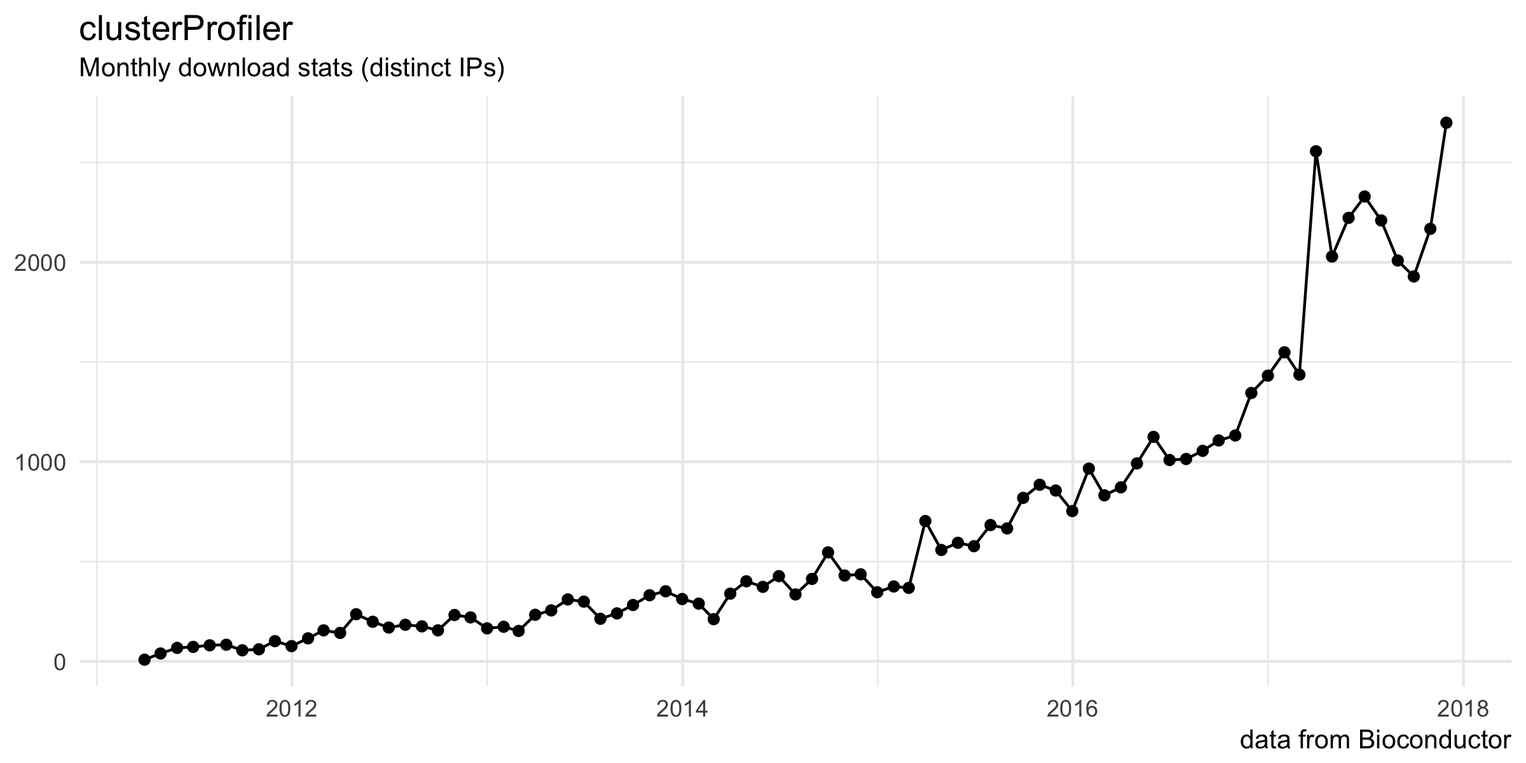
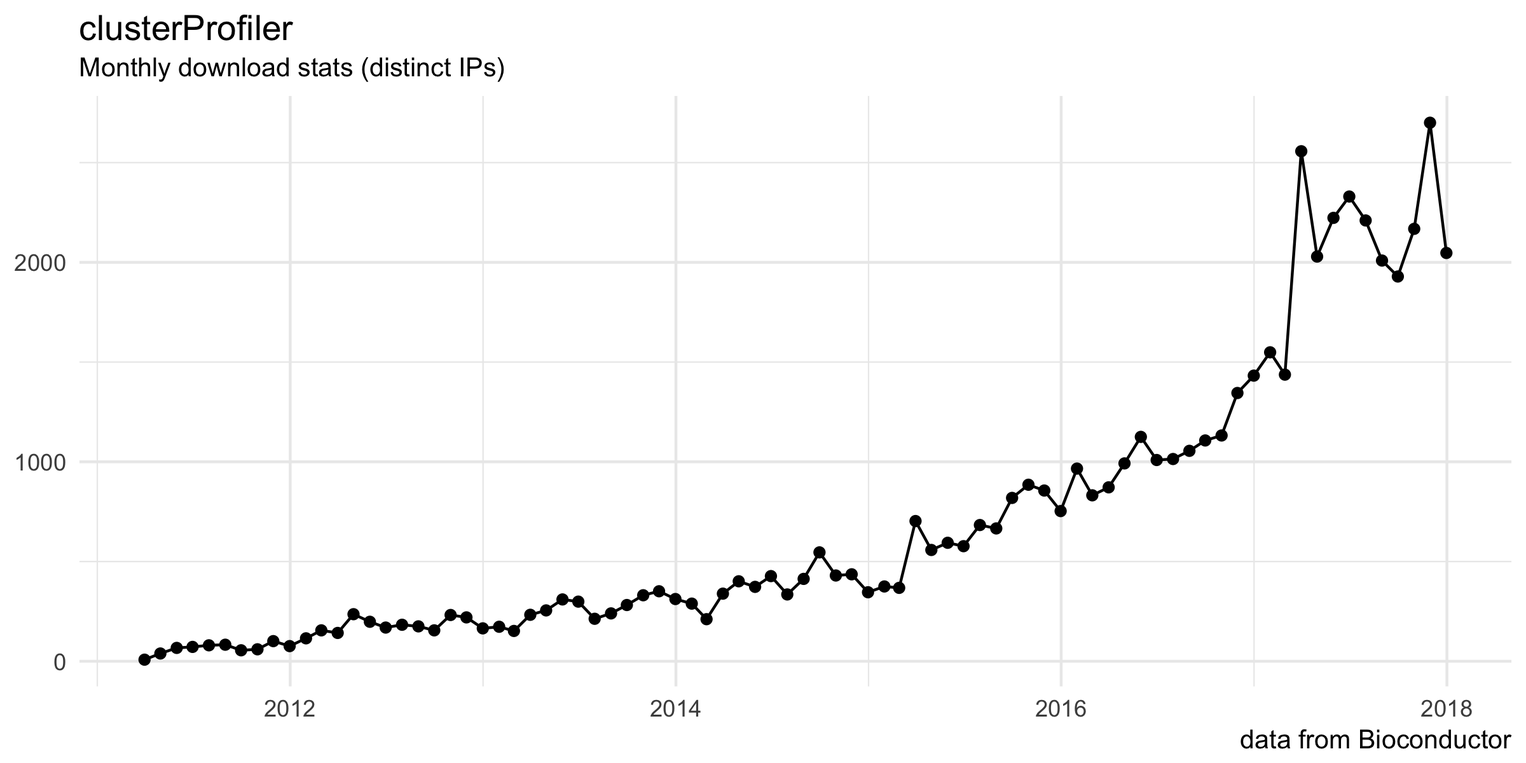
update docs

diff --git a/docs/featured-articles/index.html b/docs/featured-articles/index.html
@@ -293,15 +293,19 @@
 <p><a href="https://github.com/GuangchuangYu/featured_img">Let us know</a> if you have published using <code>clusterProfiler</code> and your publication will be featured here.</p>
 <p><img src="../images/citation.png" width="880"/></p>
 <div id="section" class="section level2">
+<h2><i class="fa fa-calendar"></i> 2018</h2>
+<p><a href="https://doi.org/10.1093/nar/gky008">The prolyl isomerase FKBP25 regulates microtubule polymerization impacting cell cycle progression and genomic stability</a>. <strong><em>Nucleic Acids Research</em></strong>. 2018</p>
+<p><a href="https://www.sciencedirect.com/science/article/pii/S0092867417314320">Microbiome Influences Prenatal and Adult Microglia in a Sex-Specific Manner</a>. <strong><em>Cell</em></strong>. 2018.</p>
+<p><a href="http://dx.doi.org/10.1093/bib/bbw139">Gene co-expression analysis for functional classification and gene–disease predictions</a>. <strong><em>Brief Bioinform</em></strong>. 2018.</p>
+<p><a href="http://dx.doi.org/10.1101/gr.224386.117">The landscape of miRNA editing in animals and its impact on miRNA biogenesis and targeting</a>. <strong><em>Genome Research</em></strong>. 2018, 28:132-143 .</p>
+<p><a href="http://dx.doi.org/10.1038/s41593-017-0025-9">Proteomic analysis of postsynaptic proteins in regions of the human neocortex</a>. <strong><em>Nature Neuroscience</em></strong>. 2018, 21(1):130-138.</p>
+<p><a href="http://dx.doi.org/10.1038/s41588-017-0001-z">Mutant-IDH1-dependent chromatin state reprogramming, reversibility, and persistence</a>. <strong><em>Nature Genetics</em></strong>. 2018, 50:62–72.</p>
+</div>
+<div id="section-1" class="section level2">
 <h2><i class="fa fa-calendar"></i> 2017</h2>
-<p><a href="https://www.sciencedirect.com/science/article/pii/S0092867417314320">Microbiome Influences Prenatal and Adult Microglia in a Sex-Specific Manner</a>. <strong><em>Cell</em></strong>. 2017.</p>
-<p><a href="http://dx.doi.org/10.1038/s41467-017-02185-w">EGFR feedback-inhibition by Ran-binding protein 6 is disrupted in cancer</a> <strong><em>Nature Communications</em></strong>.</p>
-<p><a href="http://dx.doi.org/10.1101/gr.224386.117">The landscape of miRNA editing in animals and its impact on miRNA biogenesis and targeting</a>. <strong><em>Genome Research</em></strong>.</p>
-<p><a href="https://link.springer.com/article/10.1038/s41593-017-0025-9">Proteomic analysis of postsynaptic proteins in regions of the human neocortex</a>.</p>
-<p><a href="http://dx.doi.org/10.1038/s41588-017-0001-z">Mutant-IDH1-dependent chromatin state reprogramming, reversibility, and persistence</a>. <strong><em>Nature Genetics</em></strong>. 2017.</p>
-<p><a href="http://dx.doi.org/10.1073/pnas.1710374114">FMRFamide-like peptides expand the behavioral repertoire of a densely connected nervous system</a>. <strong><em>PNAS</em></strong>. 2017.</p>
-<p><a href="https://www.nature.com/articles/nature24487">Regeneration of the entire human epidermis using transgenic stem cells</a>. <strong><em>Nature</em></strong>. 2017.</p>
-<p><a href="http://dx.doi.org/10.1093/bib/bbw139">Gene co-expression analysis for functional classification and gene–disease predictions</a>. <strong><em>Brief Bioinform</em></strong>. 2017.</p>
+<p><a href="http://dx.doi.org/10.1038/s41467-017-02185-w">EGFR feedback-inhibition by Ran-binding protein 6 is disrupted in cancer</a> <strong><em>Nature Communications</em></strong>. 2017, 8:2035.</p>
+<p><a href="http://dx.doi.org/10.1073/pnas.1710374114">FMRFamide-like peptides expand the behavioral repertoire of a densely connected nervous system</a>. <strong><em>PNAS</em></strong>. 2017, 114(50):E10726–E10735.</p>
+<p><a href="https://www.nature.com/articles/nature24487">Regeneration of the entire human epidermis using transgenic stem cells</a>. <strong><em>Nature</em></strong>. 2017, 551:327–332.</p>
 <p><a href="http://dx.doi.org/10.1038/s41467-017-01458-8">RNA editing by ADAR1 leads to context-dependent transcriptome-wide changes in RNA secondary structure</a>. <strong><em>Nature Communications</em></strong>. 2017, 8:1440.</p>
 <p><a href="http://dx.doi.org/10.1073/pnas.1710885114">Mediator subunit MED25 links the jasmonate receptor to transcriptionally active chromatin</a>. <strong><em>PNAS</em></strong>. 2017, 114(42):E8930-E8939.</p>
 <p><a href="http://dx.doi.org/10.1073/pnas.1617384114">qSVA framework for RNA quality correction in differential expression analysis</a>. <strong><em>PNAS</em></strong>. 2017, 114(27):7130-7135.</p>
@@ -309,7 +313,7 @@
 <p><a href="http://circgenetics.ahajournals.org/content/10/1/e001534">The Long Noncoding RNA Landscape of the Ischemic Human Left Ventricle</a>. <strong><em>Circulation: Cardiovascular Genetics</em></strong>. 2017, 10:e001534.</p>
 <p><a href="http://www.nature.com/nature/journal/vaop/ncurrent/full/nature20789.html">Splicing factor 1 modulates dietary restriction and TORC1 pathway longevity in <em>C. elegans</em></a>. <strong><em>Nature</em></strong>. 2017, 541:102–106.</p>
 </div>
-<div id="section-1" class="section level2">
+<div id="section-2" class="section level2">
 <h2><i class="fa fa-calendar"></i> 2016</h2>
 <p><a href="http://jem.rupress.org/content/early/2016/09/14/jem.20160185.full">Dpy30 is critical for maintaining the identity and function of adult hematopoietic stem cells</a>. <strong><em>The Journal of Experimental Medicine</em></strong>. 2016, 213(11):2349-2364</p>
 <p><a href="http://www.nature.com/nm/journal/vaop/ncurrent/full/nm.4191.html">Classification and characterization of microsatellite instability across 18 cancer types</a>. <strong><em>Nature Medicine</em></strong>. 2016, 22:1342–1350.</p>
@@ -323,7 +327,7 @@
 <p><a href="http://genome.cshlp.org/content/26/3/331.short">TP53 regulates miRNA association with AGO2 to remodel the miRNA–mRNA interaction network</a>. <strong><em>Genome Research</em></strong>. 2016, 26:331-341.</p>
 <p><a href="http://dx.doi.org/10.1039/C5MB00663E">ReactomePA: an R/Bioconductor package for reactome pathway analysis and visualization</a>. <strong><em>Molecular BioSystems</em></strong>. 2016, 12(2):477-479.</p>
 </div>
-<div id="section-2" class="section level2">
+<div id="section-3" class="section level2">
 <h2><i class="fa fa-calendar"></i> 2015</h2>
 <p><a href="http://bioinformatics.oxfordjournals.org/cgi/content/abstract/btv145">ChIPseeker: an R/Bioconductor package for ChIP peak annotation, comparision and visualization</a>. <strong><em>Bioinformatics</em></strong>. 2015, 31(14):2382-2383.</p>
 <p><a href="http://bioinformatics.oxfordjournals.org/cgi/content/abstract/btu684">DOSE: an R/Bioconductor package for Disease Ontology Semantic and Enrichment analysis</a>. <strong><em>Bioinformatics</em></strong>. 2015, 31(4):608-609.</p>
@@ -332,7 +336,7 @@
 <p><a href="http://dx.doi.org/10.1093/hmg/ddv411">Genome-wide disruption of 5-hydroxymethylcytosine in a mouse model of autism</a>. <strong><em>Hum. Mol. Genet</em></strong>. 2015, 24(24):7121-7131.</p>
 <p><a href="https://www.ncbi.nlm.nih.gov/pmc/articles/PMC4747217/">Correlation of clinical features and genetic profiles of stromal interaction molecule 1 (STIM1) in colorectal cancers</a>. <strong><em>Oncotarget</em></strong>. 2015, 6(39):42169–42182.</p>
 </div>
-<div id="section-3" class="section level2">
+<div id="section-4" class="section level2">
 <h2><i class="fa fa-calendar"></i> 2014</h2>
 <p><a href="http://dx.doi.org/10.7554/eLife.02077">Age- and diet-associated metabolome remodeling characterizes the aging process driven by damage accumulation</a>. <strong><em>eLife</em></strong> 2014,3:e02077</p>
 <div class="figure">
@@ -342,7 +346,7 @@
 <p><a href="http://dx.doi.org/10.1093/gbe/evu101">Expression Profiling of the Wheat Pathogen <em>Zymoseptoria tritici</em> Reveals Genomic Patterns of Transcription and Host-Specific Regulatory Programs</a>. <strong><em>Genome Biol Evol</em></strong> 2014, 6(6): 1353-1365.</p>
 <p><a href="http://dx.doi.org/10.1039/C4MT00027G">Proteomic analysis of putative heme-binding proteins in <em>Streptococcus pyogenes</em></a>. <strong><em>Metallomics</em></strong> 2014, 6:1451-1459</p>
 </div>
-<div id="section-4" class="section level2">
+<div id="section-5" class="section level2">
 <h2><i class="fa fa-calendar"></i> 2013</h2>
 <p><a href="http://dx.doi.org/10.1039/C3MT00126A">Putative cobalt- and nickel-binding proteins and motifs in <em>Streptococcus pneumoniae</em></a>. <strong><em>Metallomics</em></strong> 2013,5:928-935.</p>
 <div class="figure">
@@ -355,7 +359,7 @@
 
 			<aside class="copyright" role="note">
 				
-				&copy; 2017 Released under the Artistic-2.0 license &ndash;
+				&copy; 2018 Released under the Artistic-2.0 license &ndash;
 				
 				Documentation built with
 				<a href="https://www.gohugo.io" target="_blank">Hugo</a>

diff --git a/site_src/content/featured-articles/index.html b/site_src/content/featured-articles/index.html
@@ -10,15 +10,19 @@ weight: 20
 <p><a href="https://github.com/GuangchuangYu/featured_img">Let us know</a> if you have published using <code>clusterProfiler</code> and your publication will be featured here.</p>
 <p><img src="../images/citation.png" width="880"/></p>
 <div id="section" class="section level2">
+<h2><i class="fa fa-calendar"></i> 2018</h2>
+<p><a href="https://doi.org/10.1093/nar/gky008">The prolyl isomerase FKBP25 regulates microtubule polymerization impacting cell cycle progression and genomic stability</a>. <strong><em>Nucleic Acids Research</em></strong>. 2018</p>
+<p><a href="https://www.sciencedirect.com/science/article/pii/S0092867417314320">Microbiome Influences Prenatal and Adult Microglia in a Sex-Specific Manner</a>. <strong><em>Cell</em></strong>. 2018.</p>
+<p><a href="http://dx.doi.org/10.1093/bib/bbw139">Gene co-expression analysis for functional classification and gene–disease predictions</a>. <strong><em>Brief Bioinform</em></strong>. 2018.</p>
+<p><a href="http://dx.doi.org/10.1101/gr.224386.117">The landscape of miRNA editing in animals and its impact on miRNA biogenesis and targeting</a>. <strong><em>Genome Research</em></strong>. 2018, 28:132-143 .</p>
+<p><a href="http://dx.doi.org/10.1038/s41593-017-0025-9">Proteomic analysis of postsynaptic proteins in regions of the human neocortex</a>. <strong><em>Nature Neuroscience</em></strong>. 2018, 21(1):130-138.</p>
+<p><a href="http://dx.doi.org/10.1038/s41588-017-0001-z">Mutant-IDH1-dependent chromatin state reprogramming, reversibility, and persistence</a>. <strong><em>Nature Genetics</em></strong>. 2018, 50:62–72.</p>
+</div>
+<div id="section-1" class="section level2">
 <h2><i class="fa fa-calendar"></i> 2017</h2>
-<p><a href="https://www.sciencedirect.com/science/article/pii/S0092867417314320">Microbiome Influences Prenatal and Adult Microglia in a Sex-Specific Manner</a>. <strong><em>Cell</em></strong>. 2017.</p>
-<p><a href="http://dx.doi.org/10.1038/s41467-017-02185-w">EGFR feedback-inhibition by Ran-binding protein 6 is disrupted in cancer</a> <strong><em>Nature Communications</em></strong>.</p>
-<p><a href="http://dx.doi.org/10.1101/gr.224386.117">The landscape of miRNA editing in animals and its impact on miRNA biogenesis and targeting</a>. <strong><em>Genome Research</em></strong>.</p>
-<p><a href="https://link.springer.com/article/10.1038/s41593-017-0025-9">Proteomic analysis of postsynaptic proteins in regions of the human neocortex</a>.</p>
-<p><a href="http://dx.doi.org/10.1038/s41588-017-0001-z">Mutant-IDH1-dependent chromatin state reprogramming, reversibility, and persistence</a>. <strong><em>Nature Genetics</em></strong>. 2017.</p>
-<p><a href="http://dx.doi.org/10.1073/pnas.1710374114">FMRFamide-like peptides expand the behavioral repertoire of a densely connected nervous system</a>. <strong><em>PNAS</em></strong>. 2017.</p>
-<p><a href="https://www.nature.com/articles/nature24487">Regeneration of the entire human epidermis using transgenic stem cells</a>. <strong><em>Nature</em></strong>. 2017.</p>
-<p><a href="http://dx.doi.org/10.1093/bib/bbw139">Gene co-expression analysis for functional classification and gene–disease predictions</a>. <strong><em>Brief Bioinform</em></strong>. 2017.</p>
+<p><a href="http://dx.doi.org/10.1038/s41467-017-02185-w">EGFR feedback-inhibition by Ran-binding protein 6 is disrupted in cancer</a> <strong><em>Nature Communications</em></strong>. 2017, 8:2035.</p>
+<p><a href="http://dx.doi.org/10.1073/pnas.1710374114">FMRFamide-like peptides expand the behavioral repertoire of a densely connected nervous system</a>. <strong><em>PNAS</em></strong>. 2017, 114(50):E10726–E10735.</p>
+<p><a href="https://www.nature.com/articles/nature24487">Regeneration of the entire human epidermis using transgenic stem cells</a>. <strong><em>Nature</em></strong>. 2017, 551:327–332.</p>
 <p><a href="http://dx.doi.org/10.1038/s41467-017-01458-8">RNA editing by ADAR1 leads to context-dependent transcriptome-wide changes in RNA secondary structure</a>. <strong><em>Nature Communications</em></strong>. 2017, 8:1440.</p>
 <p><a href="http://dx.doi.org/10.1073/pnas.1710885114">Mediator subunit MED25 links the jasmonate receptor to transcriptionally active chromatin</a>. <strong><em>PNAS</em></strong>. 2017, 114(42):E8930-E8939.</p>
 <p><a href="http://dx.doi.org/10.1073/pnas.1617384114">qSVA framework for RNA quality correction in differential expression analysis</a>. <strong><em>PNAS</em></strong>. 2017, 114(27):7130-7135.</p>
@@ -26,7 +30,7 @@ weight: 20
 <p><a href="http://circgenetics.ahajournals.org/content/10/1/e001534">The Long Noncoding RNA Landscape of the Ischemic Human Left Ventricle</a>. <strong><em>Circulation: Cardiovascular Genetics</em></strong>. 2017, 10:e001534.</p>
 <p><a href="http://www.nature.com/nature/journal/vaop/ncurrent/full/nature20789.html">Splicing factor 1 modulates dietary restriction and TORC1 pathway longevity in <em>C. elegans</em></a>. <strong><em>Nature</em></strong>. 2017, 541:102–106.</p>
 </div>
-<div id="section-1" class="section level2">
+<div id="section-2" class="section level2">
 <h2><i class="fa fa-calendar"></i> 2016</h2>
 <p><a href="http://jem.rupress.org/content/early/2016/09/14/jem.20160185.full">Dpy30 is critical for maintaining the identity and function of adult hematopoietic stem cells</a>. <strong><em>The Journal of Experimental Medicine</em></strong>. 2016, 213(11):2349-2364</p>
 <p><a href="http://www.nature.com/nm/journal/vaop/ncurrent/full/nm.4191.html">Classification and characterization of microsatellite instability across 18 cancer types</a>. <strong><em>Nature Medicine</em></strong>. 2016, 22:1342–1350.</p>
@@ -40,7 +44,7 @@ weight: 20
 <p><a href="http://genome.cshlp.org/content/26/3/331.short">TP53 regulates miRNA association with AGO2 to remodel the miRNA–mRNA interaction network</a>. <strong><em>Genome Research</em></strong>. 2016, 26:331-341.</p>
 <p><a href="http://dx.doi.org/10.1039/C5MB00663E">ReactomePA: an R/Bioconductor package for reactome pathway analysis and visualization</a>. <strong><em>Molecular BioSystems</em></strong>. 2016, 12(2):477-479.</p>
 </div>
-<div id="section-2" class="section level2">
+<div id="section-3" class="section level2">
 <h2><i class="fa fa-calendar"></i> 2015</h2>
 <p><a href="http://bioinformatics.oxfordjournals.org/cgi/content/abstract/btv145">ChIPseeker: an R/Bioconductor package for ChIP peak annotation, comparision and visualization</a>. <strong><em>Bioinformatics</em></strong>. 2015, 31(14):2382-2383.</p>
 <p><a href="http://bioinformatics.oxfordjournals.org/cgi/content/abstract/btu684">DOSE: an R/Bioconductor package for Disease Ontology Semantic and Enrichment analysis</a>. <strong><em>Bioinformatics</em></strong>. 2015, 31(4):608-609.</p>
@@ -49,7 +53,7 @@ weight: 20
 <p><a href="http://dx.doi.org/10.1093/hmg/ddv411">Genome-wide disruption of 5-hydroxymethylcytosine in a mouse model of autism</a>. <strong><em>Hum. Mol. Genet</em></strong>. 2015, 24(24):7121-7131.</p>
 <p><a href="https://www.ncbi.nlm.nih.gov/pmc/articles/PMC4747217/">Correlation of clinical features and genetic profiles of stromal interaction molecule 1 (STIM1) in colorectal cancers</a>. <strong><em>Oncotarget</em></strong>. 2015, 6(39):42169–42182.</p>
 </div>
-<div id="section-3" class="section level2">
+<div id="section-4" class="section level2">
 <h2><i class="fa fa-calendar"></i> 2014</h2>
 <p><a href="http://dx.doi.org/10.7554/eLife.02077">Age- and diet-associated metabolome remodeling characterizes the aging process driven by damage accumulation</a>. <strong><em>eLife</em></strong> 2014,3:e02077</p>
 <div class="figure">
@@ -59,7 +63,7 @@ weight: 20
 <p><a href="http://dx.doi.org/10.1093/gbe/evu101">Expression Profiling of the Wheat Pathogen <em>Zymoseptoria tritici</em> Reveals Genomic Patterns of Transcription and Host-Specific Regulatory Programs</a>. <strong><em>Genome Biol Evol</em></strong> 2014, 6(6): 1353-1365.</p>
 <p><a href="http://dx.doi.org/10.1039/C4MT00027G">Proteomic analysis of putative heme-binding proteins in <em>Streptococcus pyogenes</em></a>. <strong><em>Metallomics</em></strong> 2014, 6:1451-1459</p>
 </div>
-<div id="section-4" class="section level2">
+<div id="section-5" class="section level2">
 <h2><i class="fa fa-calendar"></i> 2013</h2>
 <p><a href="http://dx.doi.org/10.1039/C3MT00126A">Putative cobalt- and nickel-binding proteins and motifs in <em>Streptococcus pneumoniae</em></a>. <strong><em>Metallomics</em></strong> 2013,5:928-935.</p>
 <div class="figure">

diff --git a/docs/index.html b/docs/index.html
@@ -288,7 +288,7 @@
 
 			<p><img src="https://raw.githubusercontent.com/Bioconductor/BiocStickers/master/clusterProfiler/clusterProfiler.png" height="200" align="right" /></p>
 <p><link rel="stylesheet" href="https://guangchuangyu.github.io/css/font-awesome.min.css"></p>
-<p><a href="https://bioconductor.org/packages/clusterProfiler"><img src="https://img.shields.io/badge/release%20version-3.6.0-blue.svg?style=flat" alt="releaseVersion" /></a> <a href="https://github.com/guangchuangyu/clusterProfiler"><img src="https://img.shields.io/badge/devel%20version-3.7.0-blue.svg?style=flat" alt="develVersion" /></a> <a href="https://bioconductor.org/packages/stats/bioc/clusterProfiler"><img src="https://img.shields.io/badge/downloads-56256/total-blue.svg?style=flat" alt="total" /></a> <a href="https://bioconductor.org/packages/stats/bioc/clusterProfiler"><img src="https://img.shields.io/badge/downloads-2700/month-blue.svg?style=flat" alt="month" /></a></p>
+<p><a href="https://bioconductor.org/packages/clusterProfiler"><img src="https://img.shields.io/badge/release%20version-3.6.0-blue.svg?style=flat" alt="releaseVersion" /></a> <a href="https://github.com/guangchuangyu/clusterProfiler"><img src="https://img.shields.io/badge/devel%20version-3.7.0-blue.svg?style=flat" alt="develVersion" /></a> <a href="https://bioconductor.org/packages/stats/bioc/clusterProfiler"><img src="https://img.shields.io/badge/downloads-57788/total-blue.svg?style=flat" alt="total" /></a> <a href="https://bioconductor.org/packages/stats/bioc/clusterProfiler"><img src="https://img.shields.io/badge/downloads-2047/month-blue.svg?style=flat" alt="month" /></a></p>
 <p>The <a href="https://bioconductor.org/packages/clusterProfiler/">clusterProfiler</a> package implements methods to analyze and visualize functional profiles of genomic coordinates (supported by ChIPseeker), gene and gene clusters.</p>
 <p><a href="https://bioconductor.org/packages/clusterProfiler/">clusterProfiler</a> is released within the <a href="https://bioconductor.org/packages/clusterProfiler">Bioconductor</a> project and the source code is hosted on <a href="https://github.com/GuangchuangYu/clusterProfiler"><i class="fa fa-github fa-lg"></i> GitHub</a>.</p>
 <div id="author" class="section level2">
@@ -298,7 +298,7 @@
 <div id="citation" class="section level2">
 <h2><i class="fa fa-book"></i> Citation</h2>
 <p>Please cite the following article when using <a href="https://bioconductor.org/packages/clusterProfiler/">clusterProfiler</a>:</p>
-<p><a href="http://dx.doi.org/10.1089/omi.2011.0118"><img src="https://img.shields.io/badge/doi-10.1089/omi.2011.0118-blue.svg?style=flat" alt="doi" /></a> <a href="https://www.altmetric.com/details/681089"><img src="https://img.shields.io/badge/Altmetric-23-blue.svg?style=flat" alt="Altmetric" /></a> <a href="http://online.liebertpub.com/action/showMostCitedArticles?journalCode=omi"><img src="https://img.shields.io/badge/2nd%20most%20cited%20paper-in%20OMICS-blue.svg?style=flat" /></a> <a href="https://scholar.google.com.hk/scholar?oi=bibs&amp;hl=en&amp;cites=2349076811020942117"><img src="https://img.shields.io/badge/cited%20by-356-blue.svg?style=flat" alt="citation" /></a> <img src="https://img.shields.io/badge/ESI-Highly%20Cited%20Paper-blue.svg?style=flat" /></p>
+<p><a href="http://dx.doi.org/10.1089/omi.2011.0118"><img src="https://img.shields.io/badge/doi-10.1089/omi.2011.0118-blue.svg?style=flat" alt="doi" /></a> <a href="https://www.altmetric.com/details/681089"><img src="https://img.shields.io/badge/Altmetric-23-blue.svg?style=flat" alt="Altmetric" /></a> <a href="http://online.liebertpub.com/action/showMostCitedArticles?journalCode=omi"><img src="https://img.shields.io/badge/2nd%20most%20cited%20paper-in%20OMICS-blue.svg?style=flat" /></a> <a href="https://scholar.google.com.hk/scholar?oi=bibs&amp;hl=en&amp;cites=2349076811020942117"><img src="https://img.shields.io/badge/cited%20by-378-blue.svg?style=flat" alt="citation" /></a> <img src="https://img.shields.io/badge/ESI-Highly%20Cited%20Paper-blue.svg?style=flat" /></p>
 <p><strong>Yu G</strong>, Wang L, Han Y and He Q<sup>*</sup>. clusterProfiler: an R package for comparing biological themes among gene clusters. <strong><em>OMICS: A Journal of Integrative Biology</em></strong>. 2012, 16(5):284-287.</p>
 </div>
 <div id="featured-articles" class="section level2">
@@ -445,7 +445,7 @@ biocLite(&quot;clusterProfiler&quot;)</code></pre>
 
 			<aside class="copyright" role="note">
 				
-				&copy; 2017 Released under the Artistic-2.0 license &ndash;
+				&copy; 2018 Released under the Artistic-2.0 license &ndash;
 				
 				Documentation built with
 				<a href="https://www.gohugo.io" target="_blank">Hugo</a>

diff --git a/site_src/content/index.html b/site_src/content/index.html
@@ -9,7 +9,7 @@ weight: 1
 
 <p><img src="https://raw.githubusercontent.com/Bioconductor/BiocStickers/master/clusterProfiler/clusterProfiler.png" height="200" align="right" /></p>
 <p><link rel="stylesheet" href="https://guangchuangyu.github.io/css/font-awesome.min.css"></p>
-<p><a href="https://bioconductor.org/packages/clusterProfiler"><img src="https://img.shields.io/badge/release%20version-3.6.0-blue.svg?style=flat" alt="releaseVersion" /></a> <a href="https://github.com/guangchuangyu/clusterProfiler"><img src="https://img.shields.io/badge/devel%20version-3.7.0-blue.svg?style=flat" alt="develVersion" /></a> <a href="https://bioconductor.org/packages/stats/bioc/clusterProfiler"><img src="https://img.shields.io/badge/downloads-56256/total-blue.svg?style=flat" alt="total" /></a> <a href="https://bioconductor.org/packages/stats/bioc/clusterProfiler"><img src="https://img.shields.io/badge/downloads-2700/month-blue.svg?style=flat" alt="month" /></a></p>
+<p><a href="https://bioconductor.org/packages/clusterProfiler"><img src="https://img.shields.io/badge/release%20version-3.6.0-blue.svg?style=flat" alt="releaseVersion" /></a> <a href="https://github.com/guangchuangyu/clusterProfiler"><img src="https://img.shields.io/badge/devel%20version-3.7.0-blue.svg?style=flat" alt="develVersion" /></a> <a href="https://bioconductor.org/packages/stats/bioc/clusterProfiler"><img src="https://img.shields.io/badge/downloads-57788/total-blue.svg?style=flat" alt="total" /></a> <a href="https://bioconductor.org/packages/stats/bioc/clusterProfiler"><img src="https://img.shields.io/badge/downloads-2047/month-blue.svg?style=flat" alt="month" /></a></p>
 <p>The <a href="https://bioconductor.org/packages/clusterProfiler/">clusterProfiler</a> package implements methods to analyze and visualize functional profiles of genomic coordinates (supported by ChIPseeker), gene and gene clusters.</p>
 <p><a href="https://bioconductor.org/packages/clusterProfiler/">clusterProfiler</a> is released within the <a href="https://bioconductor.org/packages/clusterProfiler">Bioconductor</a> project and the source code is hosted on <a href="https://github.com/GuangchuangYu/clusterProfiler"><i class="fa fa-github fa-lg"></i> GitHub</a>.</p>
 <div id="author" class="section level2">
@@ -19,7 +19,7 @@ weight: 1
 <div id="citation" class="section level2">
 <h2><i class="fa fa-book"></i> Citation</h2>
 <p>Please cite the following article when using <a href="https://bioconductor.org/packages/clusterProfiler/">clusterProfiler</a>:</p>
-<p><a href="http://dx.doi.org/10.1089/omi.2011.0118"><img src="https://img.shields.io/badge/doi-10.1089/omi.2011.0118-blue.svg?style=flat" alt="doi" /></a> <a href="https://www.altmetric.com/details/681089"><img src="https://img.shields.io/badge/Altmetric-23-blue.svg?style=flat" alt="Altmetric" /></a> <a href="http://online.liebertpub.com/action/showMostCitedArticles?journalCode=omi"><img src="https://img.shields.io/badge/2nd%20most%20cited%20paper-in%20OMICS-blue.svg?style=flat" /></a> <a href="https://scholar.google.com.hk/scholar?oi=bibs&amp;hl=en&amp;cites=2349076811020942117"><img src="https://img.shields.io/badge/cited%20by-356-blue.svg?style=flat" alt="citation" /></a> <img src="https://img.shields.io/badge/ESI-Highly%20Cited%20Paper-blue.svg?style=flat" /></p>
+<p><a href="http://dx.doi.org/10.1089/omi.2011.0118"><img src="https://img.shields.io/badge/doi-10.1089/omi.2011.0118-blue.svg?style=flat" alt="doi" /></a> <a href="https://www.altmetric.com/details/681089"><img src="https://img.shields.io/badge/Altmetric-23-blue.svg?style=flat" alt="Altmetric" /></a> <a href="http://online.liebertpub.com/action/showMostCitedArticles?journalCode=omi"><img src="https://img.shields.io/badge/2nd%20most%20cited%20paper-in%20OMICS-blue.svg?style=flat" /></a> <a href="https://scholar.google.com.hk/scholar?oi=bibs&amp;hl=en&amp;cites=2349076811020942117"><img src="https://img.shields.io/badge/cited%20by-378-blue.svg?style=flat" alt="citation" /></a> <img src="https://img.shields.io/badge/ESI-Highly%20Cited%20Paper-blue.svg?style=flat" /></p>
 <p><strong>Yu G</strong>, Wang L, Han Y and He Q<sup>*</sup>. clusterProfiler: an R package for comparing biological themes among gene clusters. <strong><em>OMICS: A Journal of Integrative Biology</em></strong>. 2012, 16(5):284-287.</p>
 </div>
 <div id="featured-articles" class="section level2">

diff --git a/docs/documentation/index.html b/docs/documentation/index.html
@@ -365,7 +365,7 @@
 
 			<aside class="copyright" role="note">
 				
-				&copy; 2017 Released under the Artistic-2.0 license &ndash;
+				&copy; 2018 Released under the Artistic-2.0 license &ndash;
 				
 				Documentation built with
 				<a href="https://www.gohugo.io" target="_blank">Hugo</a>

diff --git a/README.md b/README.md
@@ -3,9 +3,9 @@ clusterProfiler
 
 <img src="https://raw.githubusercontent.com/Bioconductor/BiocStickers/master/clusterProfiler/clusterProfiler.png" height="200" align="right" />
 
-[![releaseVersion](https://img.shields.io/badge/release%20version-3.6.0-green.svg?style=flat)](https://bioconductor.org/packages/clusterProfiler) [![develVersion](https://img.shields.io/badge/devel%20version-3.7.0-green.svg?style=flat)](https://github.com/guangchuangyu/clusterProfiler) [![Bioc](http://www.bioconductor.org/shields/years-in-bioc/clusterProfiler.svg)](https://www.bioconductor.org/packages/devel/bioc/html/clusterProfiler.html#since) [![total](https://img.shields.io/badge/downloads-56256/total-blue.svg?style=flat)](https://bioconductor.org/packages/stats/bioc/clusterProfiler) [![month](https://img.shields.io/badge/downloads-2700/month-blue.svg?style=flat)](https://bioconductor.org/packages/stats/bioc/clusterProfiler)
+[![releaseVersion](https://img.shields.io/badge/release%20version-3.6.0-green.svg?style=flat)](https://bioconductor.org/packages/clusterProfiler) [![develVersion](https://img.shields.io/badge/devel%20version-3.7.0-green.svg?style=flat)](https://github.com/guangchuangyu/clusterProfiler) [![Bioc](http://www.bioconductor.org/shields/years-in-bioc/clusterProfiler.svg)](https://www.bioconductor.org/packages/devel/bioc/html/clusterProfiler.html#since) [![total](https://img.shields.io/badge/downloads-57788/total-blue.svg?style=flat)](https://bioconductor.org/packages/stats/bioc/clusterProfiler) [![month](https://img.shields.io/badge/downloads-2047/month-blue.svg?style=flat)](https://bioconductor.org/packages/stats/bioc/clusterProfiler)
 
-[![Project Status: Active - The project has reached a stable, usable state and is being actively developed.](http://www.repostatus.org/badges/latest/active.svg)](http://www.repostatus.org/#active) [![codecov](https://codecov.io/gh/GuangchuangYu/clusterProfiler/branch/master/graph/badge.svg)](https://codecov.io/gh/GuangchuangYu/clusterProfiler/) [![Last-changedate](https://img.shields.io/badge/last%20change-2017--12--27-green.svg)](https://github.com/GuangchuangYu/clusterProfiler/commits/master) [![commit](http://www.bioconductor.org/shields/commits/bioc/clusterProfiler.svg)](https://www.bioconductor.org/packages/devel/bioc/html/clusterProfiler.html#svn_source) [![GitHub forks](https://img.shields.io/github/forks/GuangchuangYu/clusterProfiler.svg)](https://github.com/GuangchuangYu/clusterProfiler/network) [![GitHub stars](https://img.shields.io/github/stars/GuangchuangYu/clusterProfiler.svg)](https://github.com/GuangchuangYu/clusterProfiler/stargazers)
+[![Project Status: Active - The project has reached a stable, usable state and is being actively developed.](http://www.repostatus.org/badges/latest/active.svg)](http://www.repostatus.org/#active) [![codecov](https://codecov.io/gh/GuangchuangYu/clusterProfiler/branch/master/graph/badge.svg)](https://codecov.io/gh/GuangchuangYu/clusterProfiler/) [![Last-changedate](https://img.shields.io/badge/last%20change-2018--01--23-green.svg)](https://github.com/GuangchuangYu/clusterProfiler/commits/master) [![commit](http://www.bioconductor.org/shields/commits/bioc/clusterProfiler.svg)](https://www.bioconductor.org/packages/devel/bioc/html/clusterProfiler.html#svn_source) [![GitHub forks](https://img.shields.io/github/forks/GuangchuangYu/clusterProfiler.svg)](https://github.com/GuangchuangYu/clusterProfiler/network) [![GitHub stars](https://img.shields.io/github/stars/GuangchuangYu/clusterProfiler.svg)](https://github.com/GuangchuangYu/clusterProfiler/stargazers)
 
 [![platform](http://www.bioconductor.org/shields/availability/devel/clusterProfiler.svg)](https://www.bioconductor.org/packages/devel/bioc/html/clusterProfiler.html#archives) [![Build Status](http://www.bioconductor.org/shields/build/devel/bioc/clusterProfiler.svg)](https://bioconductor.org/checkResults/devel/bioc-LATEST/clusterProfiler/) [![Linux/Mac Travis Build Status](https://img.shields.io/travis/GuangchuangYu/clusterProfiler/master.svg?label=Mac%20OSX%20%26%20Linux)](https://travis-ci.org/GuangchuangYu/clusterProfiler) [![AppVeyor Build Status](https://img.shields.io/appveyor/ci/Guangchuangyu/clusterProfiler/master.svg?label=Windows)](https://ci.appveyor.com/project/GuangchuangYu/clusterProfiler)
 
@@ -31,12 +31,12 @@ Please cite the following article when using `clusterProfiler`:
 
 ### Citation
 
-[![](https://img.shields.io/badge/2nd%20most%20cited%20paper-in%20OMICS-green.svg?style=flat)](http://online.liebertpub.com/action/showMostCitedArticles?journalCode=omi) [![citation](https://img.shields.io/badge/cited%20by-356-green.svg?style=flat)](https://scholar.google.com.hk/scholar?oi=bibs&hl=en&cites=2349076811020942117) ![](https://img.shields.io/badge/ESI-Highly%20Cited%20Paper-green.svg?style=flat)
+[![](https://img.shields.io/badge/2nd%20most%20cited%20paper-in%20OMICS-green.svg?style=flat)](http://online.liebertpub.com/action/showMostCitedArticles?journalCode=omi) [![citation](https://img.shields.io/badge/cited%20by-378-green.svg?style=flat)](https://scholar.google.com.hk/scholar?oi=bibs&hl=en&cites=2349076811020942117) ![](https://img.shields.io/badge/ESI-Highly%20Cited%20Paper-green.svg?style=flat)
 
 <img src="docs/images/citation.png" width="890"/>
 
 ### Download stats
 
-[![download](http://www.bioconductor.org/shields/downloads/clusterProfiler.svg)](https://bioconductor.org/packages/stats/bioc/clusterProfiler) [![total](https://img.shields.io/badge/downloads-56256/total-blue.svg?style=flat)](https://bioconductor.org/packages/stats/bioc/clusterProfiler) [![month](https://img.shields.io/badge/downloads-2700/month-blue.svg?style=flat)](https://bioconductor.org/packages/stats/bioc/clusterProfiler)
+[![download](http://www.bioconductor.org/shields/downloads/clusterProfiler.svg)](https://bioconductor.org/packages/stats/bioc/clusterProfiler) [![total](https://img.shields.io/badge/downloads-57788/total-blue.svg?style=flat)](https://bioconductor.org/packages/stats/bioc/clusterProfiler) [![month](https://img.shields.io/badge/downloads-2047/month-blue.svg?style=flat)](https://bioconductor.org/packages/stats/bioc/clusterProfiler)
 
 <img src="docs/images/dlstats.png" width="890"/>
